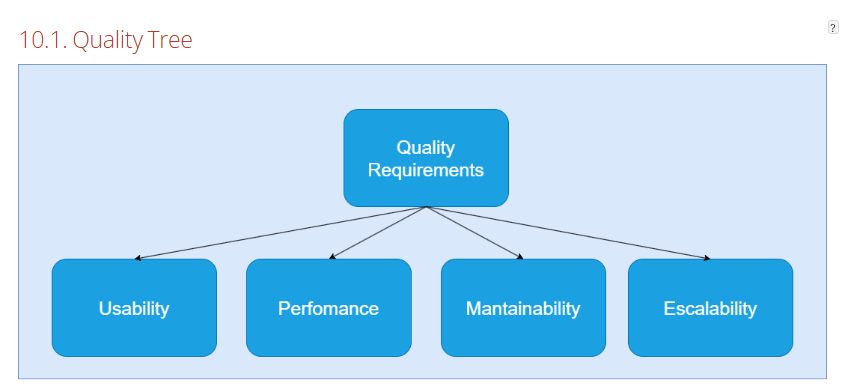
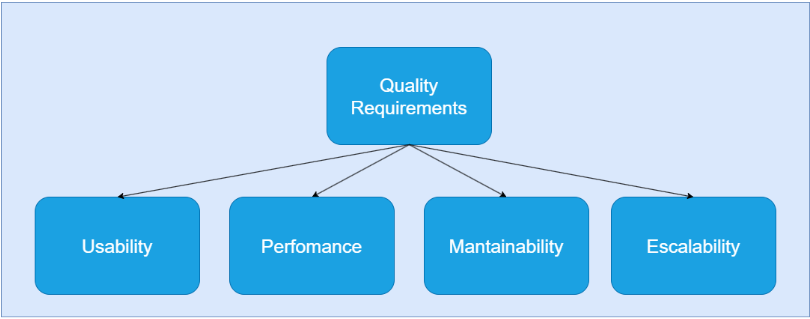
Updated Documentation.md: Issued section 10.

diff --git a/docs/Documentation.md b/docs/Documentation.md
@@ -153,6 +153,35 @@ We have taken the following organizational decisions:
 The architecture decisions can be found in the Github Wiki: [Wiki ADRS](https://github.com/dononitram/CloudTechnologiesProject/wiki/ADRS)
 
 # 10. Quality Requirements
+![alt text](./quality-tree.png)
+
+## 10.2. Quality Scenarios
+
+### 10.2.1. Usage scenarios
+
+#### Privacy
+| **Usage Scenario**                                                                 | **System Response**                                                                                                                                                           |
+|-----------------------------------------------------------------------------------|-----------------------------------------------------------------------------------------------------------------------------------------------------------------------------|
+| The user accesses the application and logs in using their credentials.            | The system validates the user’s credentials, and if they are correct, the user is redirected to the main interface. If not, an error message is displayed, requesting re-entry.|
+
+#### Performance
+
+| **Usage Scenario**                                                                                     | **System Response**                                                                                                                                               |
+|-------------------------------------------------------------------------------------------------------|-----------------------------------------------------------------------------------------------------------------------------------------------------------------|
+| The user uploads a dataset for prediction analysis through the interface.                             | The system efficiently processes the uploaded data, sends it to the backend API for analysis, and retrieves results promptly for display.                       |
+
+#### Usability
+| **Usage Scenario**                                                                                         | **System Response**                                                                                                                        |
+|-----------------------------------------------------------------------------------------------------------|------------------------------------------------------------------------------------------------------------------------------------------|
+| A new user accesses the application and interacts with the interface to understand its features.           | The user is guided through an intuitive design that clearly explains the options and functionalities, making it easy for them to navigate and use the application. |
+
+### 10.2.2 Change Scenarios
+#### Maintainability and Scalability
+| **Change Scenario**                                  | **System Response**                                                                                                                           |
+|-----------------------------------------------------|---------------------------------------------------------------------------------------------------------------------------------------------|
+| Add new prediction model                            | When a new prediction model is added to the system, existing functionalities should remain unaffected and continue to work as intended.       |
+| Integrate alternative login methods                 | When new login methods (e.g., OAuth, Google login) are added, existing login options should remain functional and seamlessly integrated.      |
+| Implement system hotfixes                           | Critical errors or bugs should be resolved and deployed in real-time without disrupting the user experience or requiring extended downtime.   |
 
 # 11. Risks and Technical Debt
 
